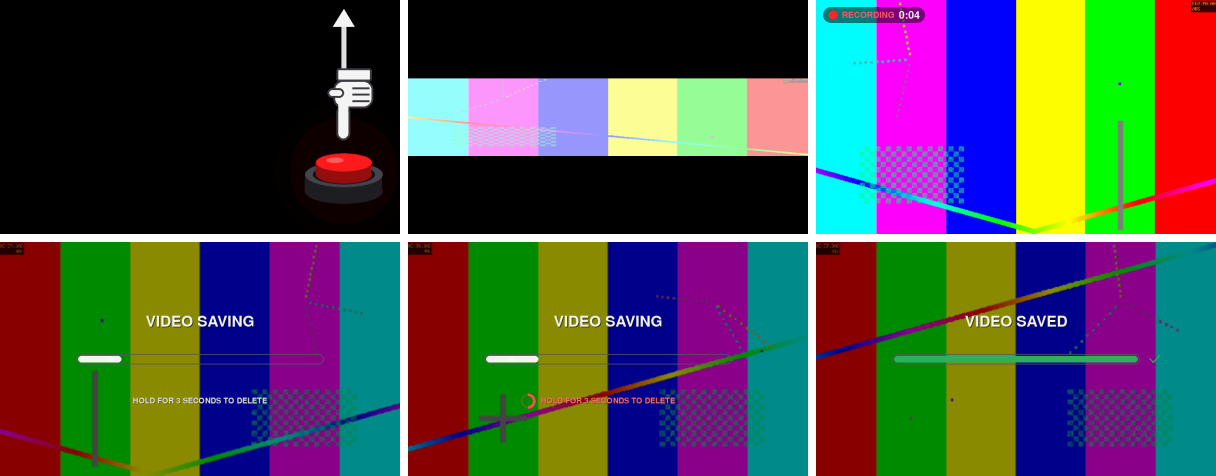
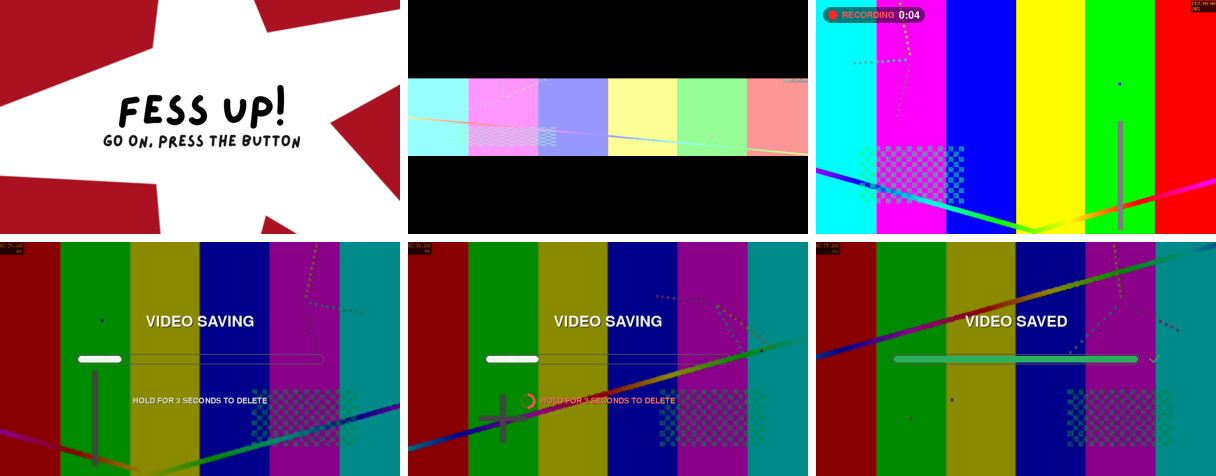
No button indicator at all: remove the hand screen and button-position settings
The 'hand pressing a button' waiting screen is gone (a saved choice of it
falls back to Confessional), along with the leftover arrow/button-position
settings. README screenshots redone without the arrow.

Claude-Session: https://claude.ai/code/session_01DPLfCfg8tPcdB8RBsJRF5o

Changed region(s): [[0.0, 0.0, 0.3438, 0.5]]

diff --git a/booth/web/index.html b/booth/web/index.html
@@ -745,7 +745,7 @@ const LABELS = {max: "Best available (auto)", when_full: "When nearly full",
   "storage_mode:both": "Both drives at the same time", ssd_first: "SSD first, then microSD when full",
   sd_first: "microSD first, then SSD when full", ssd_only: "SSD only", sd_only: "microSD only",
   confessional: "Confessional (pink bokeh)", neon: "Neon sign", spotlight: "Spotlight",
-  drama: "Drama (sunburst)", hand: "Hand pressing a button",
+  drama: "Drama (sunburst)",
   fessup: "Fess Up! (scrapbook star)",
   "picture_rotation:right": "Turn right ↻", "picture_rotation:left": "Turn left ↺",
   "picture_rotation:crop": "Camera not turned (use the middle)",

diff --git a/booth/ui.py b/booth/ui.py
@@ -420,91 +420,6 @@ class UI:
             img.blit(glow, (0, 0))
             self.screen.blit(img, (0, cy - h // 2))
 
-    def press_hint(self, t, pressed, x_frac=None, glow=1.0):
-        """Waiting screen with the physical button: black, a little hand pressing a
-        glowing red arcade button, in the middle of the screen."""
-        self.screen.fill((0, 0, 0))
-        W, H = self.W, self.H
-        u = self.S * 0.36                       # size of the drawing
-        self.arcade_hand(W / 2, H / 2 - u * 0.75, u, t, pressed, glow)
-
-    def arcade_hand(self, cx, top, u, t, pressed, glow):
-        """The little animation: a hand comes down and presses a red arcade button."""
-        cyc = (t % 1.6) / 1.6
-        if cyc < 0.35:
-            down = ease_out(cyc / 0.35)
-        elif cyc < 0.65:
-            down = 1.0
-        else:
-            down = 1 - ease_in((cyc - 0.65) / 0.35) if cyc < 1.0 else 0.0
-        push = 1.0 if pressed else max(0.0, min(1.0, (down - 0.85) / 0.15))   # cap goes in
-        base_y = top + u * 0.95                   # top of the housing ring
-        # glow behind the button: breathes with the real button's light, flares on a press
-        g = max(glow, push)
-        for k, a in ((1.0, 45), (0.78, 70), (0.6, 95)):
-            self.disc((255, 30, 30), (cx, base_y - u * 0.04), u * k * (0.8 + 0.25 * g),
-                      alpha=a * (0.35 + 0.65 * g))
-        # housing (dark cylinder)
-        hw, hh = u * 0.92, u * 0.30
-        body = pygame.Rect(int(cx - hw / 2), int(base_y), int(hw), int(u * 0.20))
-        pygame.draw.rect(self.screen, (32, 32, 36), body)
-        self._ellipse((32, 32, 36), cx, base_y + u * 0.20, hw, hh)
-        self._ellipse((70, 70, 78), cx, base_y, hw, hh)
-        self._ellipse((20, 20, 22), cx, base_y, hw * 0.80, hh * 0.80)
-        # red cap: a short cylinder with a domed top
-        cw, ch = u * 0.66, u * 0.22
-        cap_top = base_y - u * 0.14 + push * u * 0.09
-        red, dark_red = (int(200 + 55 * g), 28, 28), (150, 16, 16)
-        side = pygame.Rect(int(cx - cw / 2), int(cap_top), int(cw), int(base_y - cap_top))
-        pygame.draw.rect(self.screen, dark_red, side)
-        self._ellipse(dark_red, cx, base_y, cw, ch)
-        self._ellipse(red, cx, cap_top, cw, ch)
-        self._ellipse((255, 140, 140), cx - cw * 0.16, cap_top - ch * 0.12, cw * 0.32, ch * 0.30,
-                      alpha=150)
-        # hand (white cartoon glove), index finger pointing down at the cap
-        lift = (1 - down) * u * 0.38
-        tip_y = cap_top - ch * 0.15 - lift
-        fw = u * 0.17
-        finger = pygame.Rect(int(cx - fw / 2), int(tip_y - u * 0.42), int(fw), int(u * 0.42))
-        palm = pygame.Rect(int(cx - fw / 2 - u * 0.04), int(finger.top - u * 0.30),
-                           int(u * 0.48), int(u * 0.34))
-        cuff = pygame.Rect(palm.x + int(u * 0.04), palm.top - int(u * 0.14),
-                           palm.width - int(u * 0.06), int(u * 0.16))
-        line = (60, 60, 66)
-        glove = (246, 246, 246)
-        lw = max(2, int(u * 0.025))
-
-        def part(r_, rad):
-            pygame.draw.rect(self.screen, glove, r_, border_radius=int(rad))
-            pygame.draw.rect(self.screen, line, r_, lw, border_radius=int(rad))
-        part(finger, fw / 2)                  # finger first: the hand overlaps its root
-        part(palm, u * 0.12)
-        # folded fingers
-        for i in range(3):
-            y = palm.top + palm.height * (0.30 + 0.22 * i)
-            pygame.draw.line(self.screen, line, (finger.right + lw, y),
-                             (palm.right - u * 0.05, y), lw)
-        # cover the seam where the finger joins the hand
-        seam = pygame.Rect(finger.x + lw, palm.bottom - lw * 3, finger.width - 2 * lw, lw * 4)
-        pygame.draw.rect(self.screen, glove, seam)
-        part(pygame.Rect(palm.x - int(u * 0.07), palm.top + int(palm.height * 0.30),
-                         int(u * 0.20), int(u * 0.12)), u * 0.06)      # thumb
-        part(cuff, u * 0.03)
-
-    def _ellipse(self, colour, cx, cy, w, h, alpha=255):
-        rect = pygame.Rect(0, 0, max(2, int(w)), max(2, int(h)))
-        rect.center = (int(cx), int(cy))
-        if alpha >= 255:
-            pygame.gfxdraw.filled_ellipse(self.screen, rect.centerx, rect.centery,
-                                          rect.width // 2, rect.height // 2, colour)
-            pygame.gfxdraw.aaellipse(self.screen, rect.centerx, rect.centery,
-                                     rect.width // 2, rect.height // 2, colour)
-        else:
-            s = pygame.Surface(rect.size, pygame.SRCALPHA)
-            pygame.draw.ellipse(s, (*colour, int(alpha)), s.get_rect())
-            self.screen.blit(s, rect.topleft)
-
-    # ------------------------------------------------------------ saving screen
     def fade(self, alpha):
         """Black over everything; alpha 0..255."""
         if alpha <= 0:

diff --git a/booth/themes.py b/booth/themes.py
@@ -5,7 +5,6 @@ in reality-TV styles. Chosen on the web page: Screen -> Waiting screen.
     neon          flickering pink and blue neon sign on a dark wall
     spotlight     sweeping gold stage spotlights and sparkles
     drama         spinning hot-pink sunburst title card
-    hand          the little hand pressing a glowing arcade button
     fessup        "FESS UP!": a paper star and the words stuck on, scrapbook style,
                   "Go on, press the button" pulsing; replays every ~13 s
 
@@ -23,7 +22,7 @@ import random
 import pygame
 import pygame.gfxdraw
 
-THEMES = ["confessional", "neon", "spotlight", "drama", "hand", "fessup"]
+THEMES = ["confessional", "neon", "spotlight", "drama", "fessup"]
 ASSETS = os.path.join(os.path.dirname(os.path.abspath(__file__)), "assets")
 
 FONT_FILES = {
@@ -157,7 +156,7 @@ class WaitingScreen:
         self.rng = random.Random(7)
 
     # ------------------------------------------------------------- drawing
-    def draw(self, t, theme, x_frac, glow_level):
+    def draw(self, t, theme):
         key = (theme, self.cfg.get("waiting_title"), self.cfg.get("waiting_subtitle"))
         if self._built != key:
             getattr(self, f"_build_{theme}")()
@@ -415,9 +414,3 @@ class WaitingScreen:
                 scr.blit(shadow, rect.move(round(off * 0.6), round(off)))
             scr.blit(spr, rect)                  # paper: solid from the first frame
 
-    # ------------------------------------------------------------- 5. hand
-    def _build_hand(self):
-        pass
-
-    def _draw_hand(self, t):
-        pass                        # drawn by UI.press_hint

diff --git a/booth/app.py b/booth/app.py
@@ -253,8 +253,8 @@ class App:
 
     @property
     def black_idle(self):
-        """Physical button in use: wait on a black screen with the little hand
-        pointing at the real button, and switch the picture on like an old TV."""
+        """Physical button in use: wait on a waiting screen (no camera picture),
+        and switch the picture on like an old TV."""
         return uses_button(self.cfg)
 
     def _tvon(self):
@@ -612,11 +612,9 @@ class App:
     def _draw_waiting(self, now):
         """What the booth shows while waiting for the next guest."""
         theme = self.cfg["waiting_theme"]
-        if self.black_idle and theme in themes.THEMES and theme != "hand":
-            self.waiting.draw(now, theme, self.cfg["button_hint_x"], self.led_level("idle", now))
-        elif self.black_idle:
-            self.ui.press_hint(now, self.press_t is not None, self.cfg["button_hint_x"],
-                               glow=self.led_level("idle", now))
+        if self.black_idle:
+            # (an old saved choice like the removed "hand" screen: the default one)
+            self.waiting.draw(now, theme if theme in themes.THEMES else "confessional")
         else:
             self._draw_camera(now)
 

diff --git a/tests/test_themes.py b/tests/test_themes.py
@@ -21,21 +21,21 @@ def test_all_themes_draw():
     assert set(opts) == set(themes.THEMES), "web page and themes disagree"
     for size in ((1024, 600), (600, 1024), (800, 480)):
         screen = pygame.display.set_mode(size)
-        ws = themes.WaitingScreen(screen, {"waiting_arrow": True})
+        ws = themes.WaitingScreen(screen, {})
         for theme in themes.THEMES:
             for t in (0.0, 0.3, 1.0, 1.7, 2.5, 7.0, 12.3, 12.8, 13.5, 30.0):
-                ws.draw(100 + t, theme, 0.86, 0.5)
+                ws.draw(100 + t, theme)
 
 
 def test_fessup_sequence():
     """Star first, then FESS UP!, then the small line; it holds, fades, starts over."""
     pygame.init()
     screen = pygame.display.set_mode((1024, 600))
-    ws = themes.WaitingScreen(screen, {"waiting_arrow": False})
+    ws = themes.WaitingScreen(screen, {})
     red = themes.WaitingScreen.FESS_RED
 
     def at(t):
-        ws.draw(50 + t, "fessup", 0.86, 0.5)
+        ws.draw(50 + t, "fessup")
         return screen.get_at((512, 300))[:3], screen.get_at((314, 269))[:3], \
             screen.get_at((462, 356))[:3]
 

diff --git a/booth/config.py b/booth/config.py
@@ -126,13 +126,11 @@ DEFAULTS = {
     # full, i.e. under low_free_mb), "problems" (also for drive faults, missing
     # SSD/mic, power warnings) or "always".
     "status_bar": "when_full",
-    "button_hint_x": 0.86,       # (no longer used: there's no arrow)
     # Physical button: the waiting screen. confessional, neon, spotlight,
-    # drama (reality-TV styles with "Press button to begin recording") or hand.
+    # drama (reality-TV styles with "Press button to begin recording") or fessup.
     "waiting_theme": "confessional",
     "waiting_title": "Press button",
     "waiting_subtitle": "to begin recording",
-    "waiting_arrow": False,      # (no longer used)
     "fullscreen": True,
     # Screens bigger than this (e.g. a 1080p TV) are drawn at this size and
     # scaled up by the GPU, which keeps the booth smooth on a Pi 3B+.

diff --git a/booth/settings.py b/booth/settings.py
@@ -52,7 +52,7 @@ FIELDS = [
          options=["touch", "button", "both"], apply="restart",
          help="Tap anywhere on the screen, the physical red button (and its light), or either"),
     dict(key="waiting_theme", group="Screen", label="Waiting screen (physical button)",
-         type="select", options=["confessional", "neon", "spotlight", "drama", "hand", "fessup"],
+         type="select", options=["confessional", "neon", "spotlight", "drama", "fessup"],
          apply="live"),
     dict(key="start_animation", group="Screen", label="Before recording", type="select",
          options=["countdown", "clapperboard", "both", "none"], apply="live"),

diff --git a/README.md b/README.md
@@ -13,14 +13,14 @@ everything a press of the button does below ("hold" = keep a finger on the scree
 physical red button instead, or both, change **Screen → Start/stop with** on the web page (the
 booth restarts). The button's light is only used with the physical button.
 
-![Physical button mode: waiting screen with the hand, TV switching on, recording, saving over snippets, hold to delete, saved](docs/button-mode.png)
+![Physical button mode: waiting screen, TV switching on, recording, saving over snippets, hold to delete, saved](docs/button-mode.png)
 
 - **Waiting:**
-  - ![Waiting screens: Confessional (default), Neon sign, Spotlight](docs/waiting-screens.png)
+  - ![Waiting screens: Confessional (default), Fess Up!, Neon sign](docs/waiting-screens.png)
   - *Physical button:* a reality-TV style screen saying **"Press button to begin recording"**.
     Choose the style on the web page (Screen →
     *Waiting screen*): **Confessional** (glowing pink bokeh, the default), **Neon sign**,
-    **Spotlight**, **Drama** (spinning sunburst), a little **hand** pressing an arcade button, or
+    **Spotlight**, **Drama** (spinning sunburst), or
     **Fess Up!**: a paper star and the words stuck on one by one, scrapbook style, then
     "Go on, press the button" pulses softly for 10 s and it starts again. (Fess Up! uses its own
     artwork, so the "Words on screen" waiting-screen lines don't change it.)
